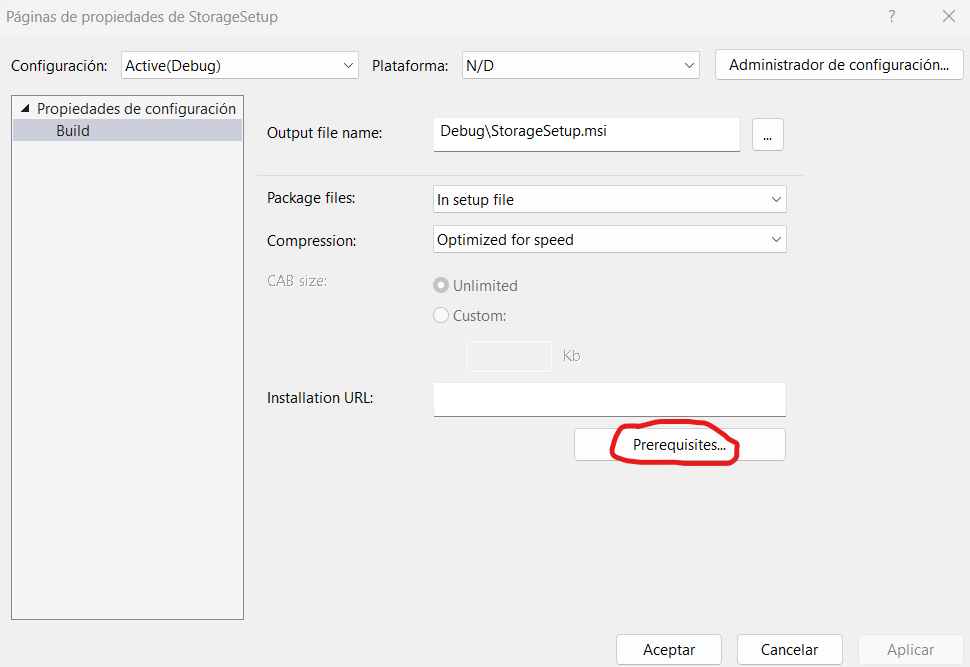
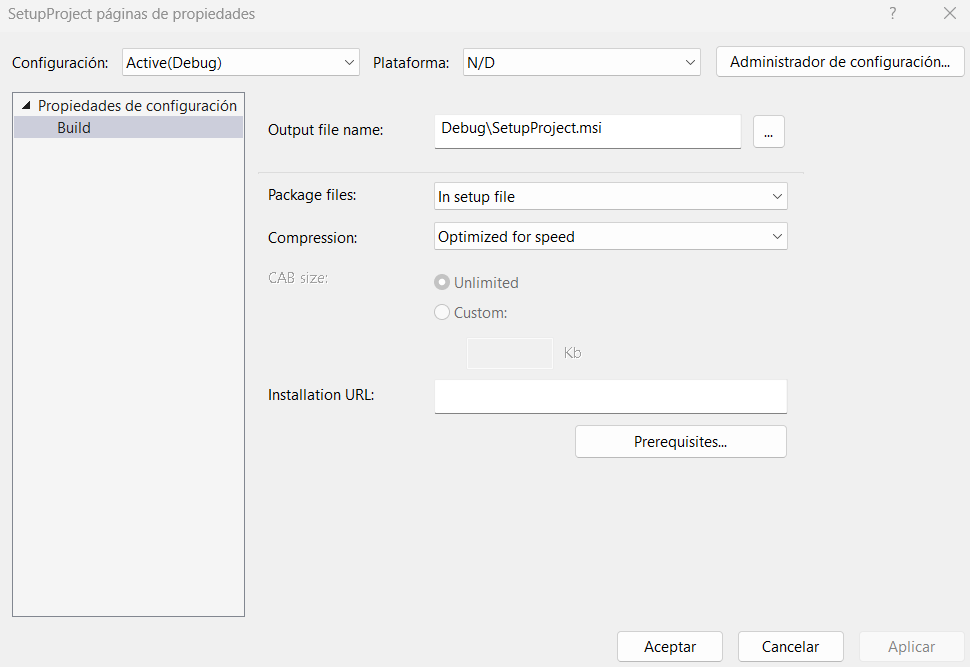
Fitxer RecercaDenís.md canviat de nom a RecercaSetup.md. Captures afegirSetupProject.png, carpetesSetupProject.png i propietatsSetupProject.png afegides. Captures afegirSetupProject.png, carpetesSetupProject.png i propietatsSetupProject.png eliminades. Finalment, captures accedirPrerequisitsProjecte

diff --git a/ProjecteMusica/InstaladorWPF/RecercaSetup.md b/ProjecteMusica/InstaladorWPF/RecercaSetup.md
@@ -10,11 +10,12 @@
 
 <h2>Procés</h2>
 
-![Afegir projecte Storage](Captures/afegirStorageSetup.png)
+![Afegir projecte Setup](Captures/afegirSetupProject.png)
 <p>Quan ja tinguis instal·lada l’extensió, crea un segon projecte dins la mateixa solució que més endavant ens servirà per fer el Setup.</p>
 
 <p>Un cop hagis creat el projecte Setup, podràs veure aquestes tres carpetes:</p>
 
+![Carpetes SetupProject](Captures/afegirSetupProject.png)
 <ul>
   <li><strong>Application’s folder</strong> (on es guarden els  fitxers .exe)</li>
   <li><strong>User’s Desktop</strong></li>
@@ -51,16 +52,16 @@
 
 <p>Quan ja tinguis la icona afegida al ShortCut, mou aquest dins de la carpeta <i>User's desktop</i> i crear una altre ShortCut amb la mateixa icona per també afegir-la dins de la carpeta <i>User's Programs Menu</i> o la carpeta del menú del programa.</p>
 
-![Propietats de StorageSetUp](Captures/propietatsStorageSetUp.png)
-<p>Si vols, pots configurar les propietats del projecte de l'StorageSetup com ara el nom de l'autor o una descripció</p>
+![Propietats de SetupProject](Captures/propietatsSetupProject.png)
+<p>Si vols, pots configurar les propietats del projecte del SetupProject com ara el nom de l'autor o una descripció</p>
 
 <h2>Prerequisits i administració de configuració</h2>
 
 ![Accedir a prerequisits projecte](Captures/accedirPrerequisitsProjecte.png)
-<p>Per configurar els prerequisits del projecte, hem d'accedir a les propietats del projecte i fer clic sobre el botó <i>Prerequisites</i>. Per defecte tindràs activat el Microsoft .NET Framework.</p>
+<p>Per configurar els prerequisits del projecte, hem d'accedir a les propietats del projecte i fer clic sobre el botó <i>Prerequisites</i>. Per defecte tindràs activat el <i>Microsoft .NET Framework</i>.</p>
 
 ![Administrador Configuracio](Captures/administradorConfiguracio.png)
-<p>Finalment, només ens faltarà anar a l'Administrador de configuració.  Aquest és l'apartat on es defineixen les opcions del compilador i els valors de compilació que s'utilitzen quan es compila el projecte. Les configuracions que tens per defecte són <i>Debug</i> i <i>Release</i>. La configuració <i>Release</i> admet la depuració d'una aplicació, mentre que la <i>Release</i> compila una versió de l'aplicació que es pot implementar. En aquest cas, deixem la configuració <i>Release</i> per les dos configuracions.</p>
+<p>Finalment, només ens faltarà anar a l'Administrador de configuració.  Aquest és l'apartat on es defineixen les opcions del compilador i els valors de compilació que s'utilitzen quan es compila el projecte. Les configuracions que tens per defecte són <i>Debug</i> i <i>Release</i>. La configuració <i>Debug</i> admet la depuració d'una aplicació, mentre que la <i>Release</i> compila una versió de l'aplicació que es pot implementar. En aquest cas, apliquem la configuració <i>Release</i> a tots els projectes menys el que utilitzarem per fer el Setup.</p>
 
 ![Fitxer .exe creat](/Captures/fitxerExeCreat.png)
 <p>Finalment, només et quedarà compilar el projecte perquè se't generi el fitxer .exe i a punt per executar-lo.</p>
